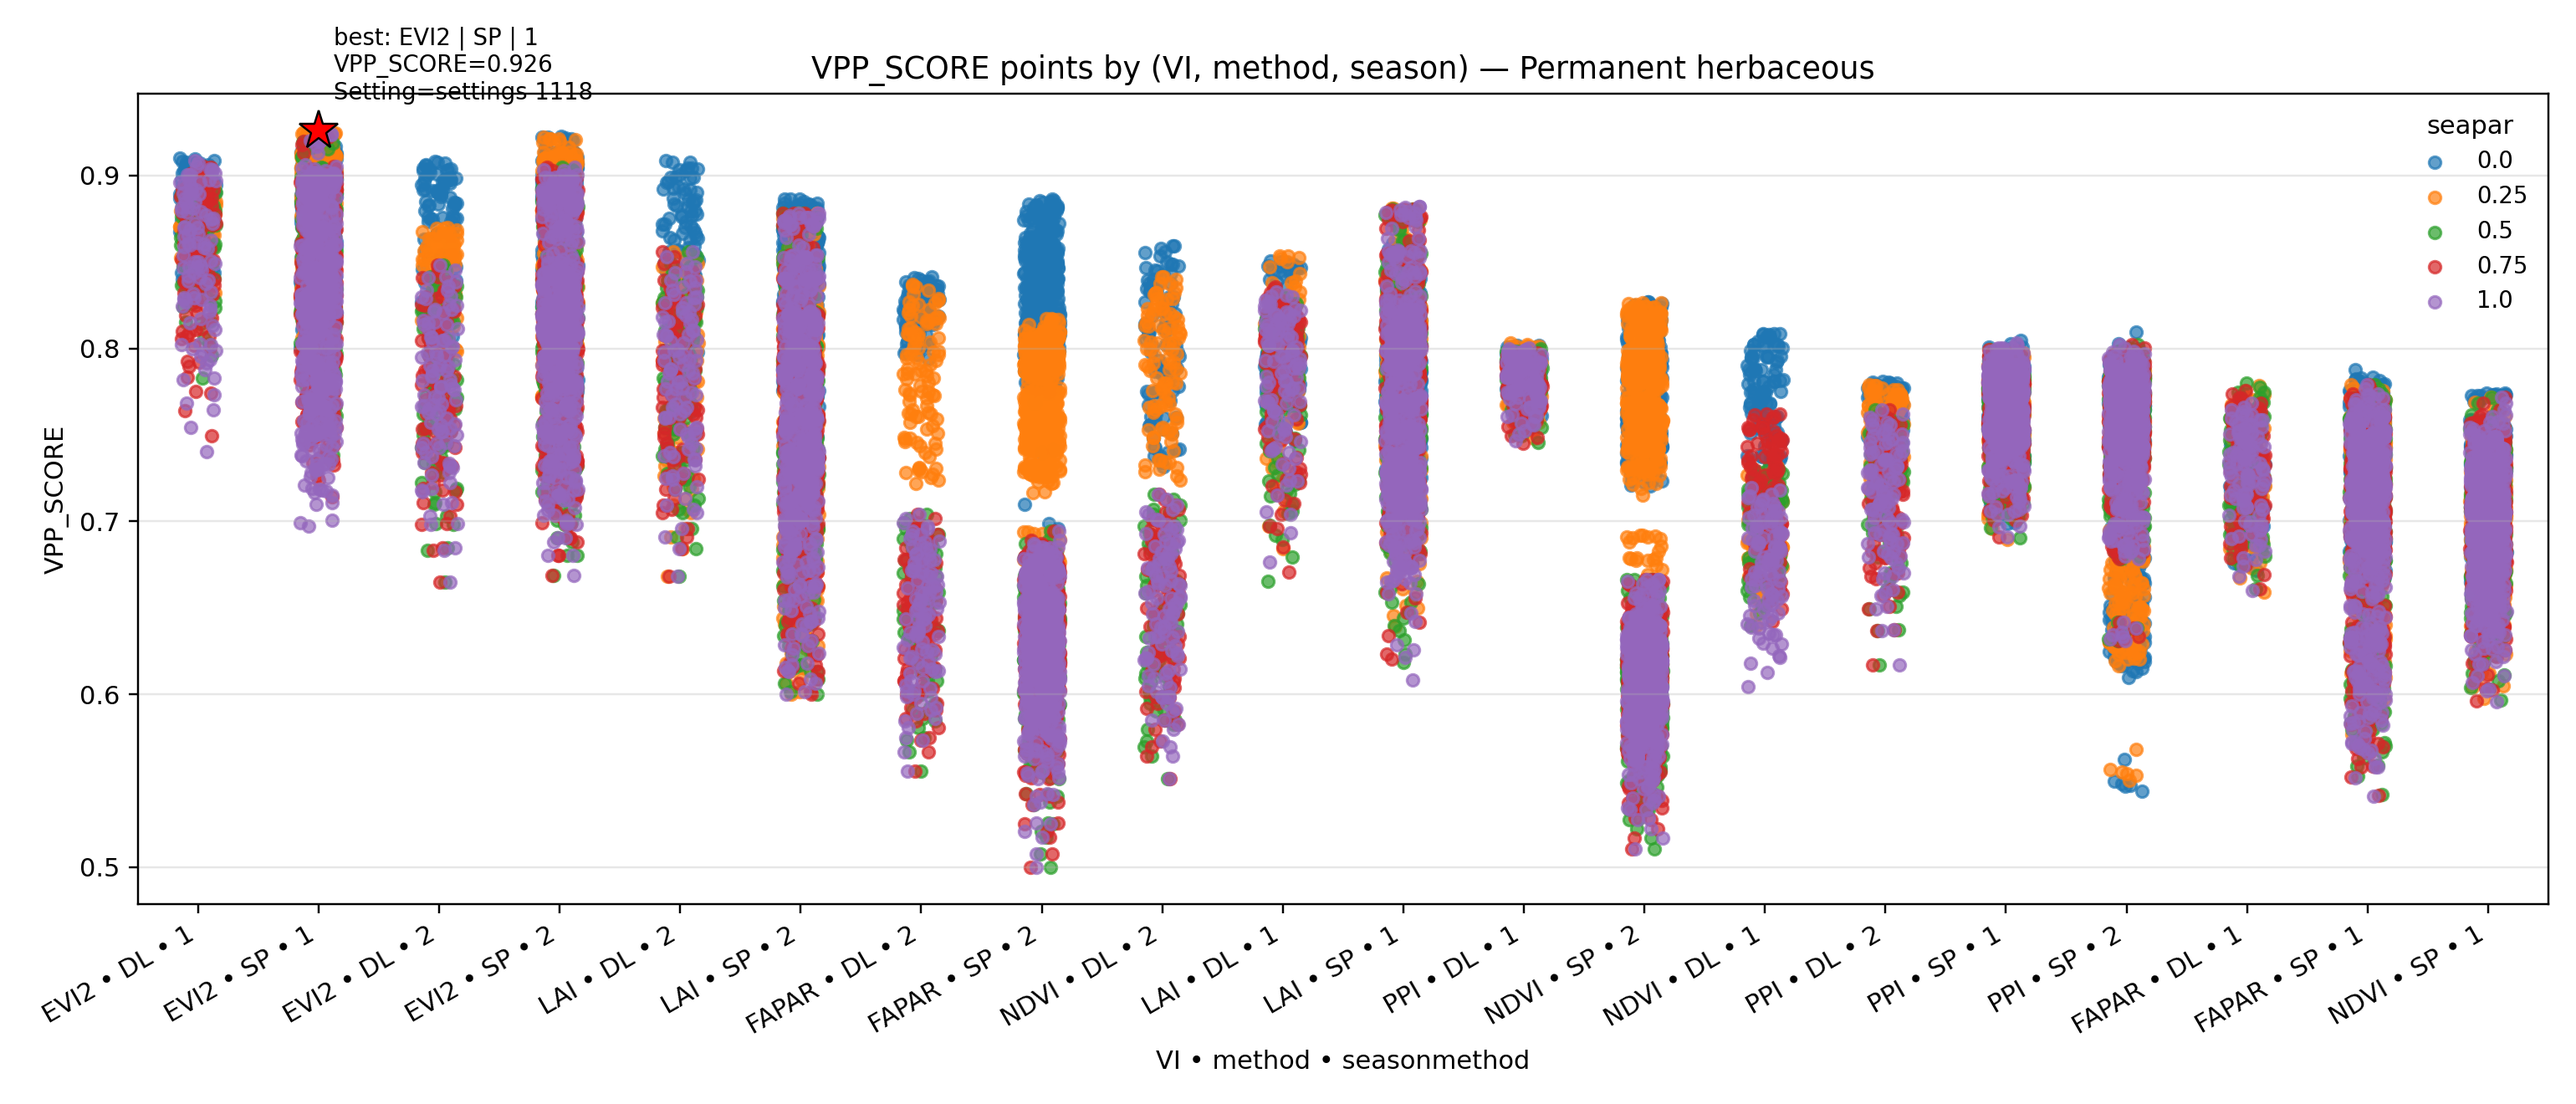
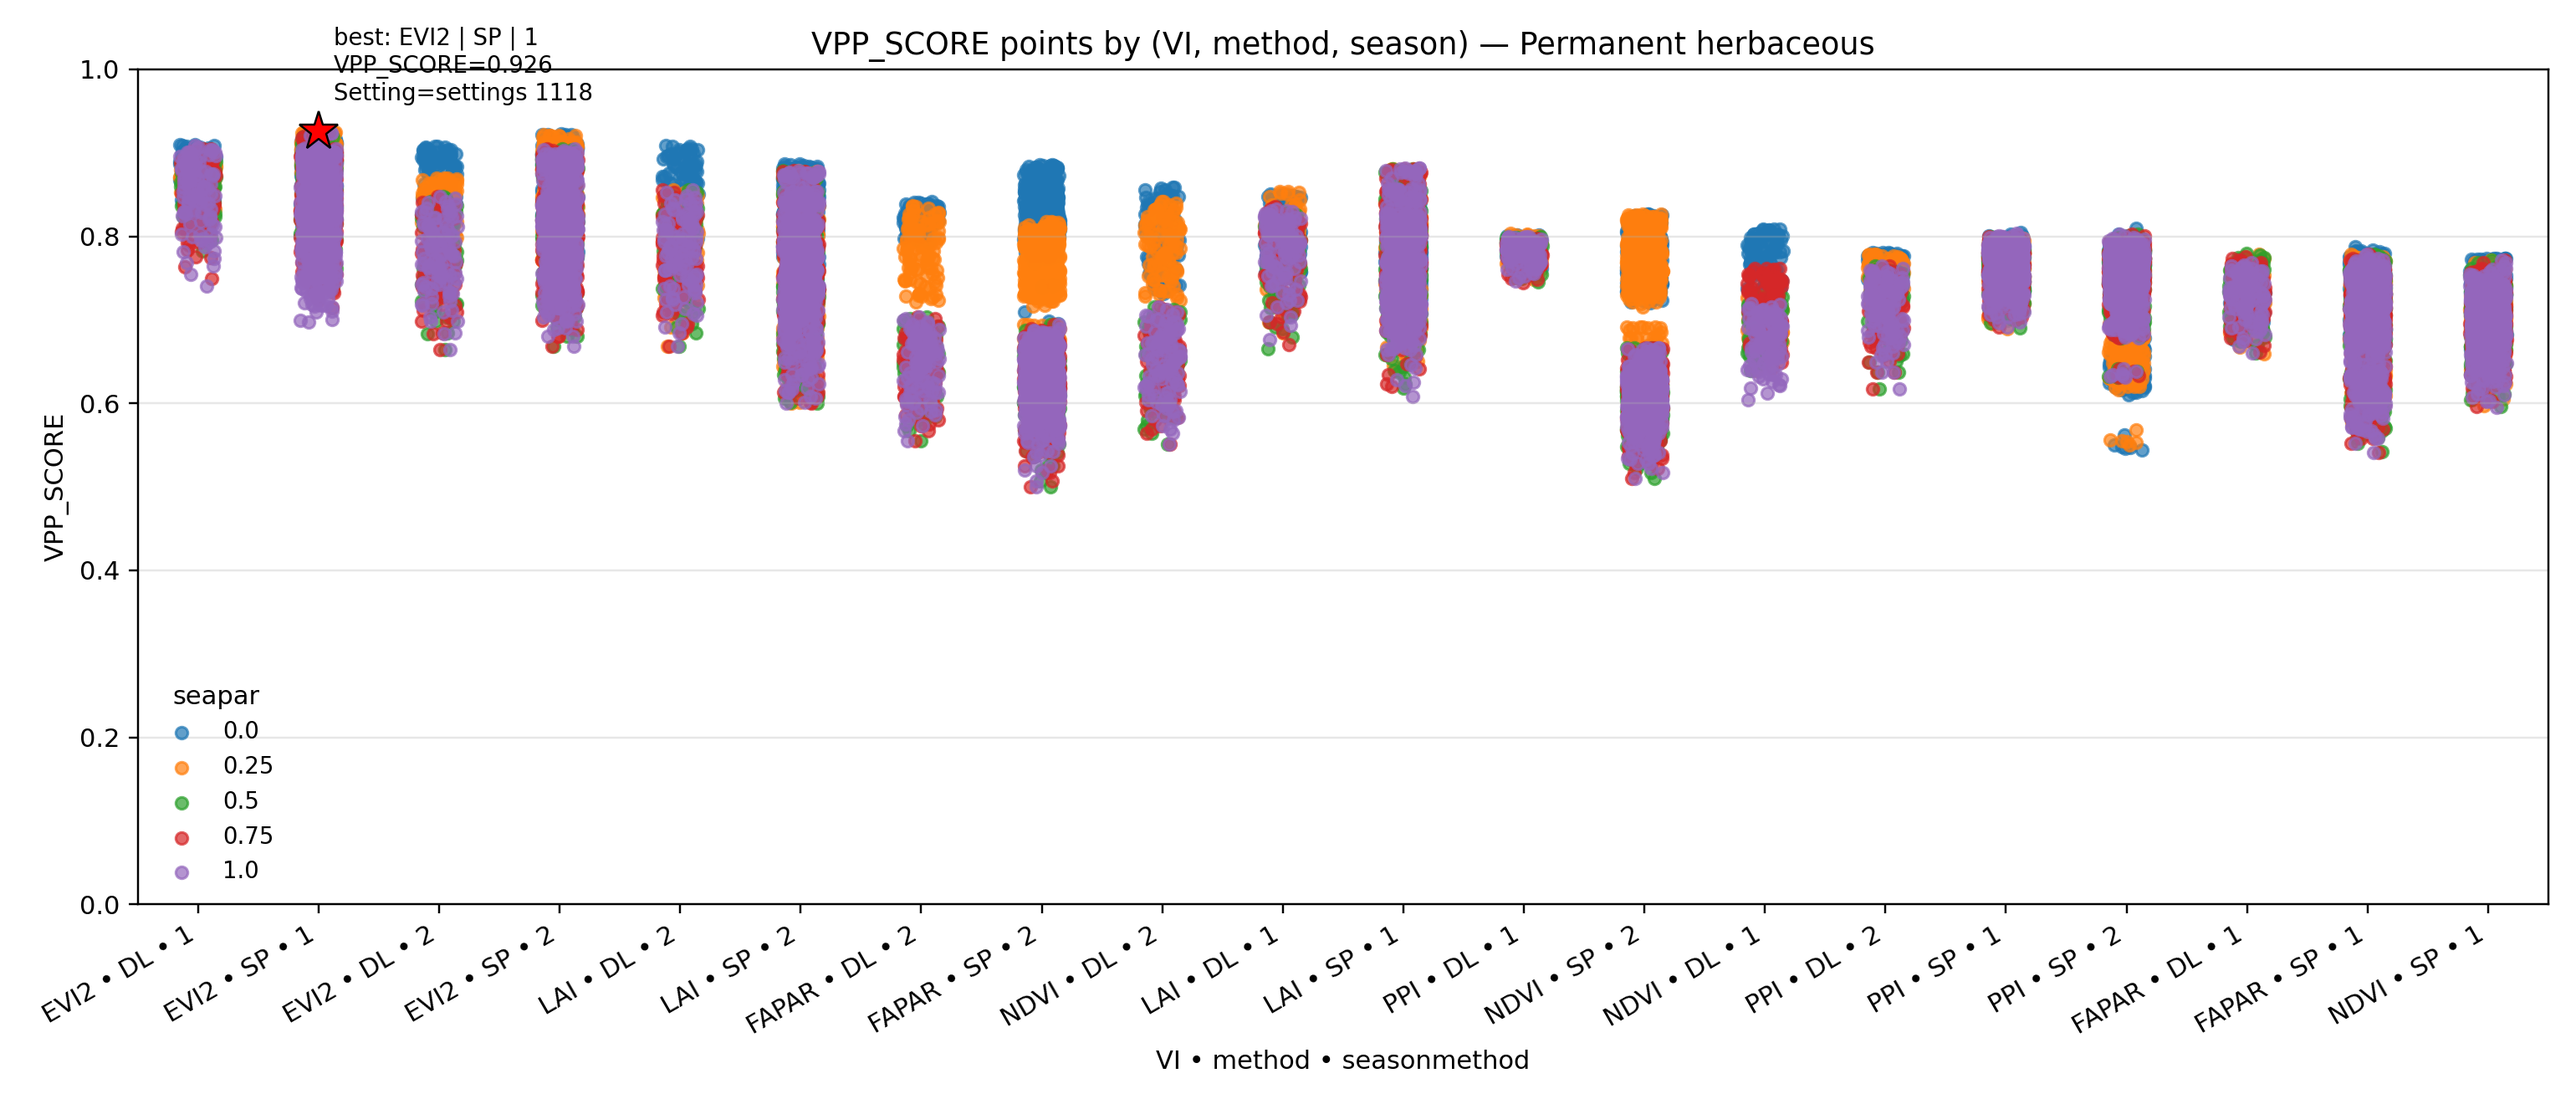
reorder plot2

diff --git a/plot_vpp_points_by_triple_per_lc.py b/plot_vpp_points_by_triple_per_lc.py
@@ -184,7 +184,7 @@ def main():
 
         if handles:
             ax.legend(handles=handles, labels=labels, title=args.seapar_col, frameon=False, fontsize=9)
-
+        ax.set_ylim(0, 1)
         fig.tight_layout()
         fname = f"points_{sanitize_filename(args.score_col)}_by_VI_method_season_bestsea_{sanitize_filename(lc_name)}.png"
         fig.savefig(os.path.join(args.outdir, fname), dpi=args.dpi)
